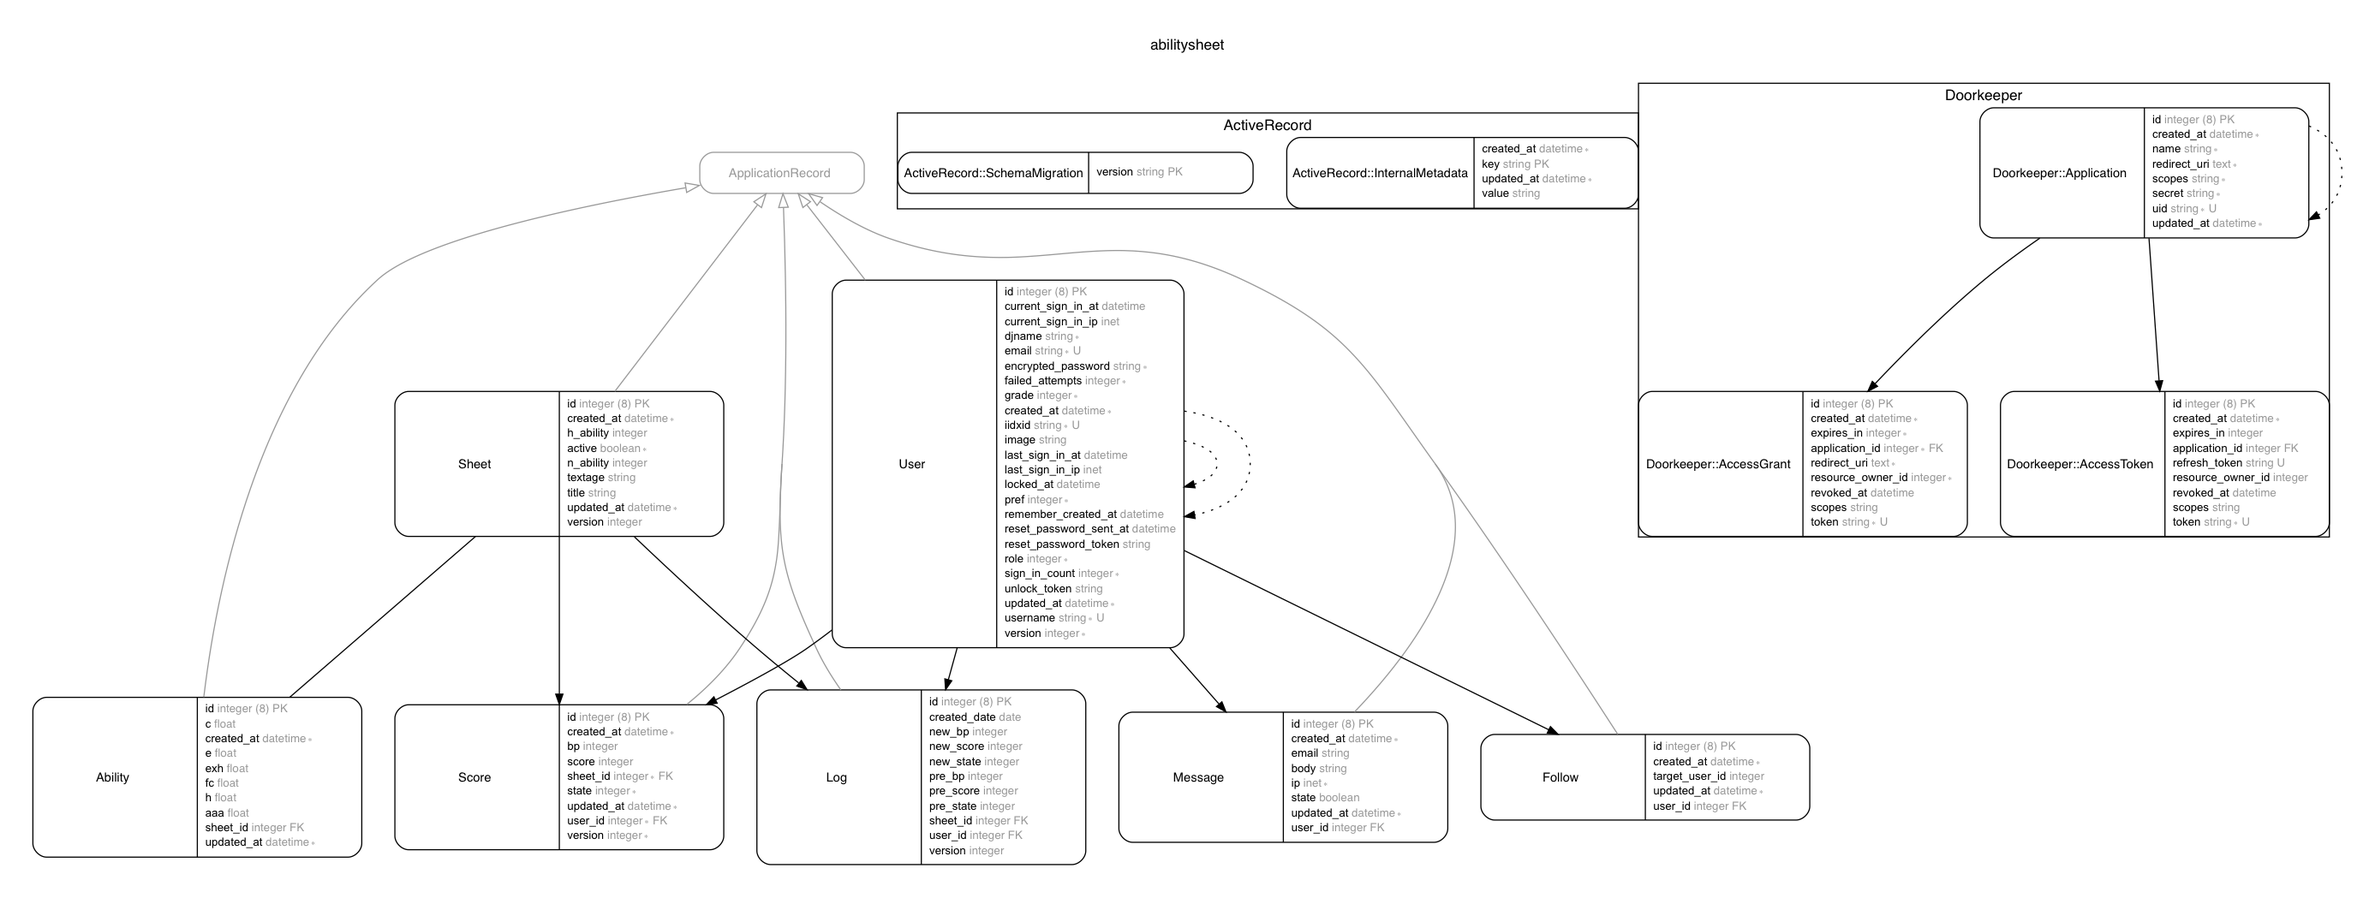
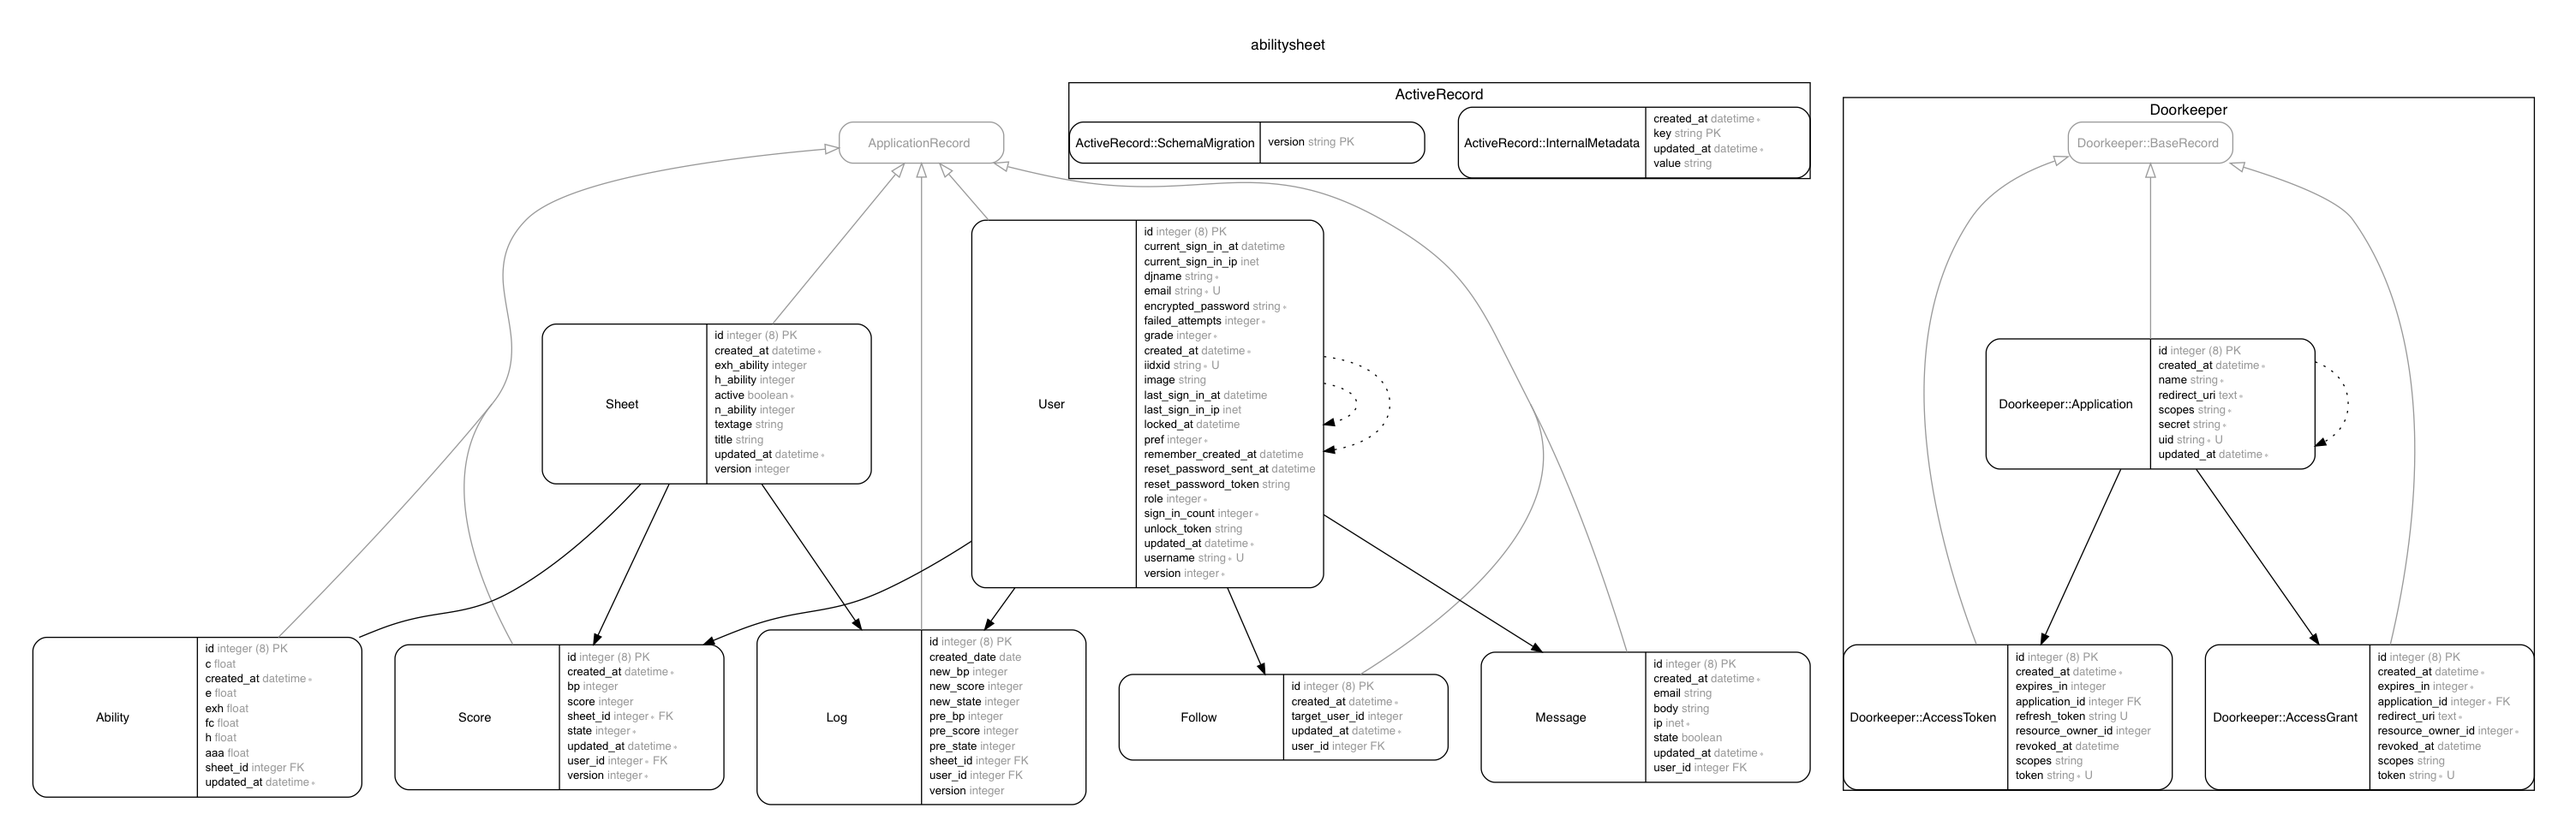
[#1069] renderable exh

diff --git a/app/assets/javascripts/components/sheets/sheet.es6.jsx b/app/assets/javascripts/components/sheets/sheet.es6.jsx
@@ -15,6 +15,12 @@ class Sheet extends BaseComponent {
           link: 'clear',
           remain: '未難',
           button: 'uk-button-primary'
+        },
+        exh: {
+          name: 'エクハ参考表',
+          link: 'clear',
+          remain: '未エクハ',
+          button: 'uk-button-primary'
         }
       },
       remain: false,

diff --git a/app/assets/javascripts/components/sheets/sheet_list.es6.jsx b/app/assets/javascripts/components/sheets/sheet_list.es6.jsx
@@ -68,6 +68,7 @@ class SheetList extends BaseComponent {
   setAbilities(sheets) {
     abilities = Object.keys(sheets).map((ability) => { return parseInt(ability)})
     if(this.state.reverse) { abilities = abilities.reverse() }
+    console.log(abilities)
     return abilities
   }
 

diff --git a/app/models/sheet.rb b/app/models/sheet.rb
@@ -1,18 +1,18 @@
 # frozen_string_literal: true
-
 # == Schema Information
 #
 # Table name: sheets
 #
-#  id         :integer          not null, primary key
-#  title      :string
-#  n_ability  :integer
-#  h_ability  :integer
-#  version    :integer
-#  active     :boolean          default(TRUE), not null
-#  textage    :string
-#  created_at :datetime         not null
-#  updated_at :datetime         not null
+#  id          :integer          not null, primary key
+#  title       :string
+#  n_ability   :integer
+#  h_ability   :integer
+#  version     :integer
+#  active      :boolean          default(TRUE), not null
+#  textage     :string
+#  created_at  :datetime         not null
+#  updated_at  :datetime         not null
+#  exh_ability :integer
 #
 
 class Sheet < ApplicationRecord

diff --git a/spec/models/sheet_spec.rb b/spec/models/sheet_spec.rb
@@ -1,18 +1,18 @@
 # frozen_string_literal: true
-
 # == Schema Information
 #
 # Table name: sheets
 #
-#  id         :integer          not null, primary key
-#  title      :string
-#  n_ability  :integer
-#  h_ability  :integer
-#  version    :integer
-#  active     :boolean          default(TRUE), not null
-#  textage    :string
-#  created_at :datetime         not null
-#  updated_at :datetime         not null
+#  id          :integer          not null, primary key
+#  title       :string
+#  n_ability   :integer
+#  h_ability   :integer
+#  version     :integer
+#  active      :boolean          default(TRUE), not null
+#  textage     :string
+#  created_at  :datetime         not null
+#  updated_at  :datetime         not null
+#  exh_ability :integer
 #
 
 describe Sheet, type: :model do

diff --git a/spec/factories/sheets.rb b/spec/factories/sheets.rb
@@ -1,18 +1,18 @@
 # frozen_string_literal: true
-
 # == Schema Information
 #
 # Table name: sheets
 #
-#  id         :integer          not null, primary key
-#  title      :string
-#  n_ability  :integer
-#  h_ability  :integer
-#  version    :integer
-#  active     :boolean          default(TRUE), not null
-#  textage    :string
-#  created_at :datetime         not null
-#  updated_at :datetime         not null
+#  id          :integer          not null, primary key
+#  title       :string
+#  n_ability   :integer
+#  h_ability   :integer
+#  version     :integer
+#  active      :boolean          default(TRUE), not null
+#  textage     :string
+#  created_at  :datetime         not null
+#  updated_at  :datetime         not null
+#  exh_ability :integer
 #
 
 FactoryBot.define do

diff --git a/db/schema.rb b/db/schema.rb
@@ -10,7 +10,7 @@
 #
 # It's strongly recommended that you check this file into your version control system.
 
-ActiveRecord::Schema.define(version: 20151219233629) do
+ActiveRecord::Schema.define(version: 20180226135142) do
 
   # These are extensions that must be enabled in order to support this database
   enable_extension "plpgsql"
@@ -124,6 +124,7 @@ ActiveRecord::Schema.define(version: 20151219233629) do
     t.string "textage"
     t.datetime "created_at", null: false
     t.datetime "updated_at", null: false
+    t.integer "exh_ability"
   end
 
   create_table "users", force: :cascade do |t|

diff --git a/app/controllers/sheets_controller.rb b/app/controllers/sheets_controller.rb
@@ -22,7 +22,8 @@ class SheetsController < ApplicationController
     @action_routes = {
       'power' => :power,
       'clear' => :clear,
-      'hard' => :hard
+      'hard' => :hard,
+      'exh' => :exh
     }
     raise ActionController::RoutingError unless @action_routes[params[:type]]
   end
@@ -38,6 +39,10 @@ class SheetsController < ApplicationController
 
   def hard
     @sheet_type = 1
+  end
+
+  def exh
+    @sheet_type = 2
   end
 
   def load_static

diff --git a/app/models/concerns/sheet/api.rb b/app/models/concerns/sheet/api.rb
@@ -9,8 +9,10 @@ module Sheet::API
         title: title,
         clear: n_ability,
         hard: h_ability,
+        exh: exh_ability,
         clear_string: Static::POWER[n_ability][0],
         hard_string: Static::POWER[h_ability][0],
+        exh_string: Static::EXH_POWER.reverse[exh_ability][0],
         version: version
       }
     end

diff --git a/db/migrate/20180226135142_add_exh_tosheet.rb b/db/migrate/20180226135142_add_exh_tosheet.rb
@@ -1,0 +1,5 @@
+class AddExhTosheet < ActiveRecord::Migration[5.1]
+  def change
+    add_column :sheets, :exh_ability, :integer
+  end
+end
